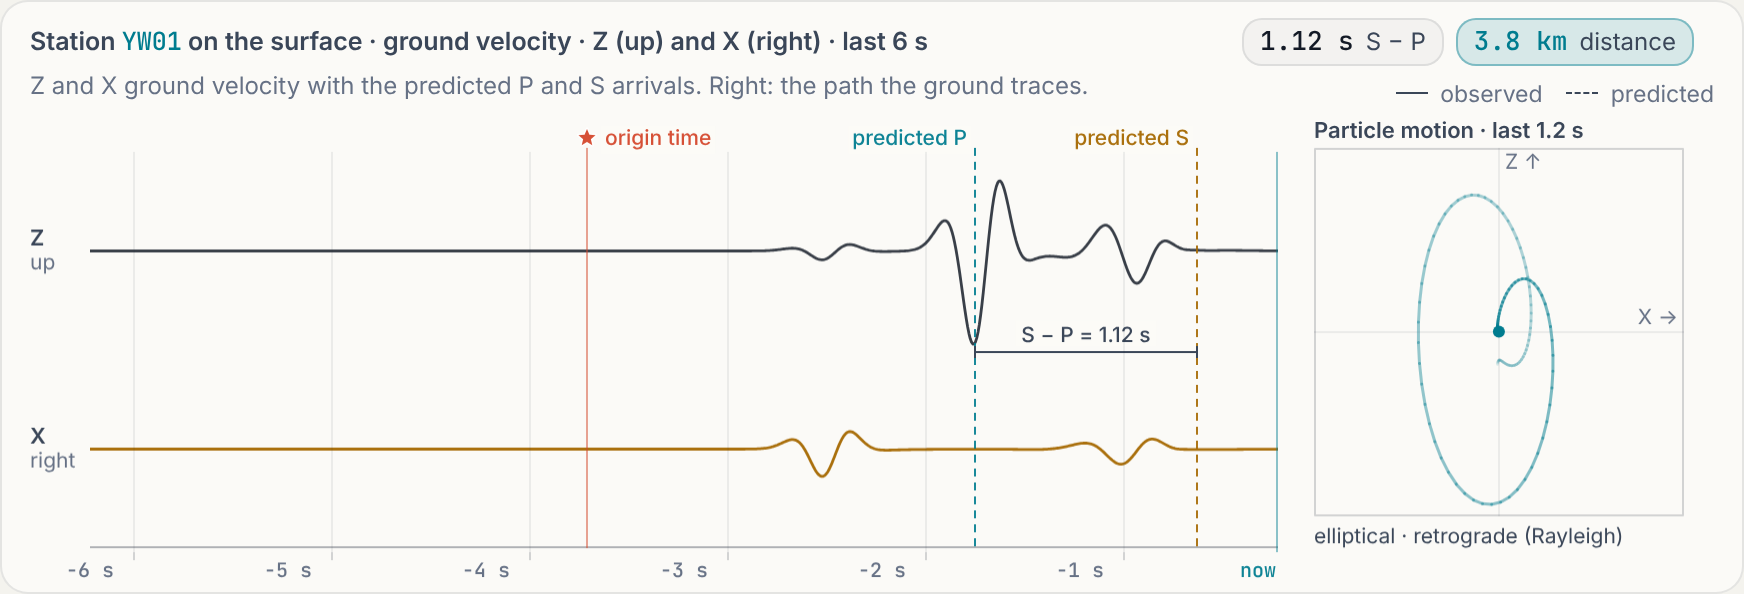
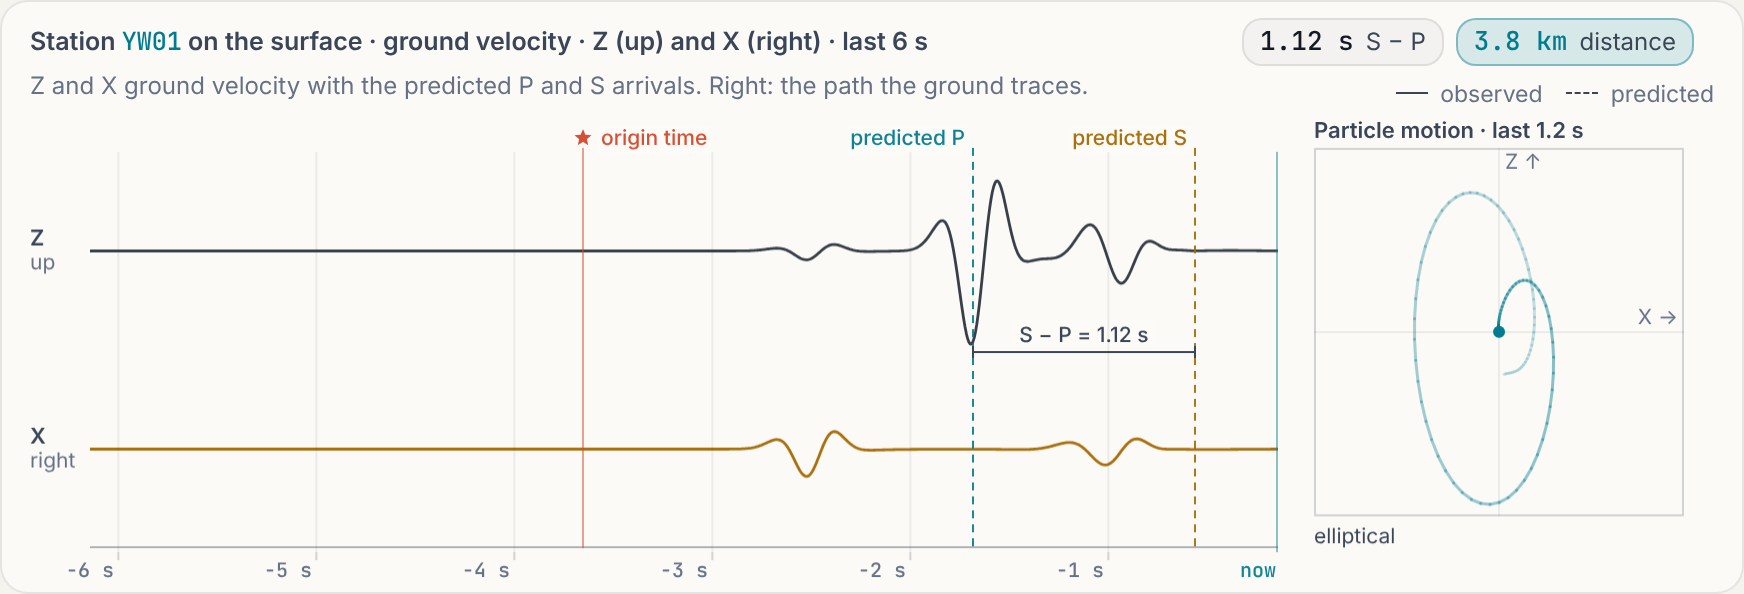
Design QA, round 2: review fixes applied, re-shot pictures
Re-shot tr-focus, tomo-done, elastic-ps and the phone pictures after the
six fixes from the visual review (implementation commit 1507386), and
added the review's conclusion and the changes to design/qa-notes-r2.md.

Claude-Session: https://claude.ai/code/session_01SZ3VGrktBmKBZj8qwq78g7

diff --git a/design/shots-r2-after/INDEX.md b/design/shots-r2-after/INDEX.md
@@ -16,10 +16,10 @@ A curated set: every picture of `design/shots-r2/` (the state before), the pictu
 - `arrays-seis-dark.png` — 16-station surface line array (default); click centre, +3.5 s sim | hud: t = 4.7 s | cta: Repeat the last quake | t=4.73 s
 - `arrays-seis-light-data@2x.png` — data panel @2x: 16-station surface line array (default); click centre, +3.5 s sim | hud: t = 4.6 s | cta: Repeat the last quake | t=4.62 s
 - `arrays-seis-light.png` — 16-station surface line array (default); click centre, +3.5 s sim | hud: t = 4.7 s | cta: Repeat the last quake | t=4.67 s
-- `elastic-ps-dark-data@2x.png` — data panel @2x: deep source below the station (75% y); tp 1.97 s, ts 3.08 s, captured at +3.50 s | hud: t = 4.8 s | cta: (hidden) | t=4.85 s
-- `elastic-ps-dark.png` — deep source below the station (75% y); tp 1.97 s, ts 3.08 s, captured at +3.49 s | hud: t = 4.7 s | cta: (hidden) | t=4.66 s
-- `elastic-ps-light-data@2x.png` — data panel @2x: deep source below the station (75% y); tp 1.97 s, ts 3.08 s, captured at +3.50 s | hud: t = 4.8 s | cta: (hidden) | t=4.78 s
-- `elastic-ps-light.png` — deep source below the station (75% y); tp 1.97 s, ts 3.08 s, captured at +3.49 s | hud: t = 5.0 s | cta: (hidden) | t=5.03 s
+- `elastic-ps-dark-data@2x.png` — data panel @2x: deep source below the station (75% y); tp 1.97 s, ts 3.08 s, captured at +3.50 s | hud: t = 4.8 s | cta: (hidden) | t=4.83 s
+- `elastic-ps-dark.png` — deep source below the station (75% y); tp 1.97 s, ts 3.08 s, captured at +3.49 s | hud: t = 5.1 s | cta: (hidden) | t=5.13 s
+- `elastic-ps-light-data@2x.png` — data panel @2x: deep source below the station (75% y); tp 1.97 s, ts 3.08 s, captured at +3.50 s | hud: t = 4.8 s | cta: (hidden) | t=4.85 s
+- `elastic-ps-light.png` — deep source below the station (75% y); tp 1.97 s, ts 3.08 s, captured at +3.50 s | hud: t = 5.1 s | cta: (hidden) | t=5.07 s
 - `elastic-rayleigh-dark-data@2x.png` — data panel @2x: click at 47.2% x / 3% y; source at cell 143,3 (snapped to depth 3), distance 2.5 km; +3.0 s sim (auto shallow shot at enter also present) | hud: t = 4.3 s | cta: (hidden) | t=4.28 s
 - `elastic-rayleigh-dark.png` — click at 47.2% x / 3% y; source at cell 143,3 (snapped to depth 3), distance 2.5 km; +3.0 s sim (auto shallow shot at enter also present) | hud: t = 4.3 s | cta: (hidden) | t=4.26 s
 - `home-arrival-dark.png` — home, click hero 62%/30% (element hit: canvas#fieldgl), +3.2 s real; solver gpu 544x340
@@ -77,15 +77,15 @@ A curated set: every picture of `design/shots-r2/` (the state before), the pictu
 - `text/tr-recorded.txt` — text dump of tr-recorded (dark)
 - `tomo-checker-dark-data@2x.png` — data panel @2x: checkerboard survey complete (checker truth, bent rays, 382 picks, r = 0.78) | hud: 382 rays | cta: Run the survey again | t=56.63 s
 - `tomo-checker-dark.png` — checkerboard survey complete (checker truth, bent rays, 382 picks, r = 0.78) | hud: 382 rays | cta: Run the survey again | t=56.58 s
-- `tomo-done-dark-data@2x.png` — data panel @2x: survey + inversion complete (bent rays, 382 picks, r = 0.96) | hud: 382 rays | cta: Run the survey again | t=56.05 s
-- `tomo-done-dark.png` — survey + inversion complete (bent rays, 382 picks, r = 0.96) | hud: 382 rays | cta: Run the survey again | t=55.9 s
-- `tomo-done-light-data@2x.png` — data panel @2x: survey + inversion complete (bent rays, 382 picks, r = 0.96) | hud: 382 rays | cta: Run the survey again | t=56.09 s
-- `tomo-done-light.png` — survey + inversion complete (bent rays, 382 picks, r = 0.96) | hud: 382 rays | cta: Run the survey again | t=56.09 s
-- `tr-focus-dark-data@2x.png` — data panel @2x: playback done, focusing image shown (err 0.00 λ, FWHM x 0.42 λ, z 0.40 λ) | hud: Focusing image | cta: ◀◀ Time-reverse | t=5.71 s
-- `tr-focus-dark-view@2x.png` — wave view @2x: playback done, focusing image shown (err 0.00 λ, FWHM x 0.42 λ, z 0.40 λ) | hud: Focusing image | cta: ◀◀ Time-reverse | t=5.71 s
-- `tr-focus-dark.png` — playback done, focusing image shown (err 0.00 λ, FWHM x 0.42 λ, z 0.40 λ) | hud: Focusing image | cta: ◀◀ Time-reverse | t=5.8 s
-- `tr-focus-light-data@2x.png` — data panel @2x: playback done, focusing image shown (err 0.00 λ, FWHM x 0.42 λ, z 0.40 λ) | hud: Focusing image | cta: ◀◀ Time-reverse | t=5.62 s
-- `tr-focus-light.png` — playback done, focusing image shown (err 0.00 λ, FWHM x 0.42 λ, z 0.40 λ) | hud: Focusing image | cta: ◀◀ Time-reverse | t=5.74 s
+- `tomo-done-dark-data@2x.png` — data panel @2x: survey + inversion complete (bent rays, 382 picks, r = 0.96) | hud: 382 rays | cta: Run the survey again | t=56.09 s
+- `tomo-done-dark.png` — survey + inversion complete (bent rays, 382 picks, r = 0.96) | hud: 382 rays | cta: Run the survey again | t=55.96 s
+- `tomo-done-light-data@2x.png` — data panel @2x: survey + inversion complete (bent rays, 382 picks, r = 0.96) | hud: 382 rays | cta: Run the survey again | t=55.98 s
+- `tomo-done-light.png` — survey + inversion complete (bent rays, 382 picks, r = 0.96) | hud: 382 rays | cta: Run the survey again | t=56.15 s
+- `tr-focus-dark-data@2x.png` — data panel @2x: playback done, focusing image shown (err 0.00 λ, FWHM x 0.42 λ, z 0.40 λ) | hud: Focusing image | cta: ◀◀ Time-reverse | t=5.76 s
+- `tr-focus-dark-view@2x.png` — wave view @2x: playback done, focusing image shown (err 0.00 λ, FWHM x 0.42 λ, z 0.40 λ) | hud: Focusing image | cta: ◀◀ Time-reverse | t=5.76 s
+- `tr-focus-dark.png` — playback done, focusing image shown (err 0.00 λ, FWHM x 0.42 λ, z 0.40 λ) | hud: Focusing image | cta: ◀◀ Time-reverse | t=5.98 s
+- `tr-focus-light-data@2x.png` — data panel @2x: playback done, focusing image shown (err 0.00 λ, FWHM x 0.42 λ, z 0.40 λ) | hud: Focusing image | cta: ◀◀ Time-reverse | t=5.73 s
+- `tr-focus-light.png` — playback done, focusing image shown (err 0.00 λ, FWHM x 0.42 λ, z 0.40 λ) | hud: Focusing image | cta: ◀◀ Time-reverse | t=5.85 s
 
 ## Scenario notes / failures
 

diff --git a/design/qa-notes-r2.md b/design/qa-notes-r2.md
@@ -109,3 +109,31 @@
 - **Q3 · 时间反演 `true source` 标签。**
   - 现状：标签在左上 25px。震源靠近圆环时会压到环上的传感器三角（`tr-focus` 里可见），有光晕，仍可读。
   - 问题：靠近环时要不要改放右上？
+
+---
+
+## 设计 QA 结论与修改（提交 `1507386`）
+
+- **结论**：§8 的 11 条全部通过，五处偏离全部确认。下面 6 条照你的原文实现，按你的意思不再复审。
+- **修改**：
+  1. **Q1，选 (b)**：焦斑放大图上面那根横条改用 x、z 两向平均，长度是 `(wx + wy) / 2`，文字写 `FWHM 0.41 λ`，与标题区、结果卡一致。
+  2. **Q2，选 (a)**：只有同时满足下面两条时才写顺 / 逆进：
+     - 最后一次震源是浅源，即 `r.y <= 0.07 · L.ny`；
+     - `age` 落在 `[tR, tR + 1.2]` 里，其中 `tR = n0s + tpOnly · √3 / 0.9194`。
+     - 其余情况：直线度 ≥ 0.9 写 `linear · body wave (P or S)`，否则只写 `elliptical`。
+     - 补充说明：即使在这个窗口里，直线度 ≥ 0.9 时也写 `linear`，以免给直线运动标上 elliptical。
+  3. **Q3**：两个标签放在朝向波场中心的一侧，`dir = X < L.sx(L.nx / 2) ? 1 : −1`；引线、文字位置和对齐方式照你的原文。线阵镜和空腔用同一规则。
+  4. **层析残差图**：
+     - 绘图区顶边离标题 16 → 20 px；
+     - 两端取 50 的整数倍：默认模型的下端从 `−175` 变为 `−200`。
+  5. **结果卡**：`.res-big` 加 `padding-bottom:10px` 和 1px 细线，`margin` 改为 `0 0 12px`。
+  6. **手机**：`.data{height:auto}`，`#datac{flex:none; height:200px}`。`lab-phone-tomo` 里三张图下面的色标和刻度字已完整显示。
+- **重拍**：`tr-focus-*`、`tomo-done-*`、`elastic-ps-*` 和两张手机图。你点名的 `tr-focus-dark`、`elastic-ps-dark-data@2x`、`lab-phone-tomo` 都在里面。
+- **复核**：
+  - 偏振新规则：
+    - 浅源在台站左侧时，依次读到 `linear` → `elliptical` → 进窗后 `elliptical · retrograde (Rayleigh)` → 出窗后 `elliptical` → `linear`；
+    - 浅源在右侧时，依次读到 `linear` → `retrograde` → `elliptical`；
+    - 正下方深源只读到 `linear`；
+    - `elastic-ps` 现在写 `elliptical`。
+  - 页面报错：主页 + 6 个实验 × 暗 / 亮 × CPU / GPU，0 报错。
+- **知悉**：`home-arrival-*` 里没有发震标记，原因是无头 GPU 跑不动，看门狗重建了网格，已知且无需处理。
